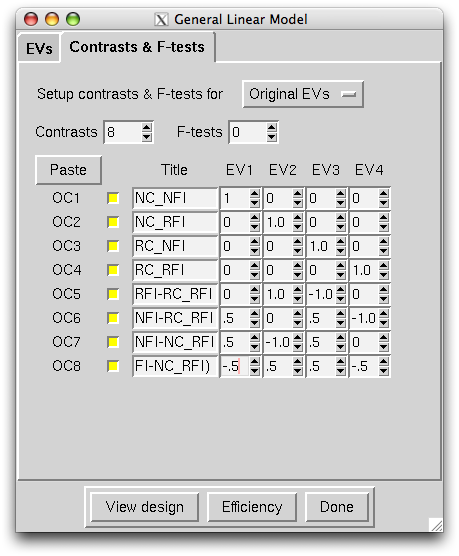
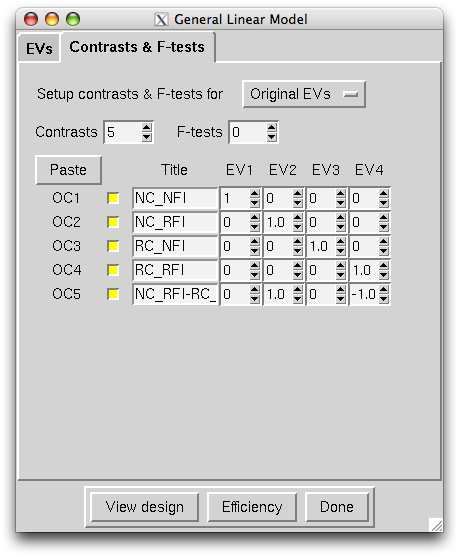
shortened ROI tutorial, re-did some images for FIR tutorial, general FIR tutorial edits

diff --git a/doc/tutorial_fir/tutorial.rst b/doc/tutorial_fir/tutorial.rst
@@ -75,7 +75,7 @@ Open *README.txt* again::
 
 Next, we need to fill out *run-order.txt* with the order of MRI sequences that were completed for this subject. One has already been made for you, so go ahead and run this command to get it:: 
 
- $ curl -k https://raw.github.com/ntblab/neuropipe-support/dev/doc/tutorial_fir/0223101_conatt01_run-order.txt > run-order.txt
+ $ curl -k https://raw.github.com/ntblab/neuropipe-support/dev/doc/tutorial_fir/run-order.txt > run-order.txt
 
 To check that *run-order.txt* came through all right, hit "q" to get out of *README.txt*, and run this command::
 
@@ -122,7 +122,7 @@ Use the "(What's this?)" links to figure out what all the diagnostics mean. When
 **Summary**::
 
   $ less README.txt
-  $ curl -k https://raw.github.com/ntblab/neuropipe-support/dev/doc/tutorial_fir/0223101_conatt01_run-order.txt > run-order.txt
+  $ curl -k https://raw.github.com/ntblab/neuropipe-support/dev/doc/tutorial_fir/run-order.txt > run-order.txt
   $ less run-order.txt
   $ less README.txt
   $ less analyze.sh
@@ -169,7 +169,7 @@ The Data tab
 
 Click "Select 4D data" and select the file *data/nifti/0223101_conatt01_encoding01.nii.gz*; FEAT will analyze this data. Set "Output directory" to *analysis/firstlevel/encoding_fir01*; FEAT will put the results of its analysis in this folder, but with ".feat" appended, or "+.feat" appended if this is the second analysis with this name that you've run. FEAT should have detected "Total volumes" as 355, but it may have mis-detected "TR (s)" as 3.0; if so, change that to 1.5, because this experiment had a TR length of 1.5 seconds. Because *protocol.txt* indicated there were 9 seconds of disdaqs (volumes of data at the start of the run that are discarded because the scanner needs a few seconds to settle down), and TR length is 1.5s, set "Delete volumes" to 6. Set "High pass filter cutoff (s)" to 128 to remove slow drifts from your signal.
 
-.. image:: https://github.com/ntblab/neuroipe-support/raw/dev/doc/tutorial_fir/feat-data.png
+.. image:: https://github.com/ntblab/neuropipe-support/raw/dev/doc/tutorial_fir/feat-data.png
 
 Go to the Pre-stats tab.
 
@@ -197,7 +197,12 @@ The Stats tab
 
 Check "Add motion parameters to model"; this makes regressors from estimates of the subject's motion, which hopefully absorb variance in the signal due to transient motion. To account for the variance in the signal due to the experimental manipulation, we define regressors based on the design, as described in *protocol.txt*. *protocol.txt* says that subjects viewed an uninterrupted stream of images, making an indoor/outdoor decision for one image every 1.5 seconds.
 
-Unbeknownst to the participants, the images were structured in such a way that each image fell into 1 of 12 categories determined by the structure of preceding images. If you're interested in the design of this experiment and the motivations behind it, check out **PAPER REFERENCE**. We will therefore have 12 regressors in this model.
+Unbeknownst to the participants, the images were structured in such a way that each image fell into 1 of 12 categories determined by the structure of preceding images. We are going to focus on 4 of the catgories of images, and therefore will have 4 regressors in this model:
+
+1. NC_NFI: last of a set of 3 images, where the 2 preceeding images are novel and the third is novel as well
+2. NC_RFI: last of a set of 3 images, where the 2 preceeding images are novel but the third has been seen before
+3. RC_RFI: last of a set of 3 images, where the 2 preceeding images are repeated (have been seen before) and the third is repeated as well
+4. RC_NFI: last of a set of 3 images, where the 2 preceeding images are repeated but the third is novel
 
 We will specify this design using text files in FEAT's 3-column format: we make 1 text file per regressor, each with one line per stimulus occurance belonging to that regressor. Each line has 3 numbers, separated by whitespace. The first number indicates the onset time in seconds of the period. The second number indicates the duration of the period. The third number indicates the height of the regressor during the period; always set this to 1 unless you know what you're doing. See `FEAT's documentation`_ for more details.
 
@@ -225,22 +230,19 @@ Click on Tab 1. Set one EV name to match the name of one of our text files. In t
 
 .. image:: https://github.com/ntblab/neuropipe-support/raw/dev/doc/tutorial_fir/feat-stats-ev4.png
 
-Now go to the "Contrasts & F-tests" tab. Increase "Contrasts" to 8. There is now a matrix of number fields with a row for each contrast and a column for each EV. You specify a contrast as a linear combination of the parameter estimates on each regressor. We'll make one contrast to show the main effect of each regressor, and a few more to look at the difference in brain activity between certain regressors or regressor combinations:
+Now go to the "Contrasts & F-tests" tab. Increase "Contrasts" to 5. There is now a matrix of number fields with a row for each contrast and a column for each EV. You specify a contrast as a linear combination of the parameter estimates on each regressor. We'll make one contrast to show the main effect of each regressor, and also one to look at the difference in brain activity between certain regressors. The idea here is that you can look at the differences between regressors or even groups of regressors by creating a contrast for a particular relationship you're interested in:
 
 * Set the 1st row's title to "NC_NFI", its "EV1" value to 1, and leave the rest of the EV values at 0. 
 * Set the 2nd row's title to "NC_RFI", its "EV2" value to 1, and leave the rest at 0.
 * Set the 3rd row's title to "RC_NFI", its "EV3" value to 1, and leave the rest at 0.
 * Set the 4rd row's title to "RC_RFI", its "EV4" value to 1, and leave the rest at 0.
 * Set the 5th row's title to "NC_RFI-RC_RFI", its "EV2" value to 1, its "EV4" value to -1, and leave the rest at 0. 
-* Set the 6th row's title to "NFI-RC_RFI", its "EV1" and "EV3" values to .5, its "EV4" value to -1, and leave the rest at 0.
-* Set the 7th row's title to "NFI-NC_RFI", its "EV1" and "EV3" values to .5, its "EV2" value to -1, and leave the rest at 0.
-* Set the 8th row's title to "(RC_NFI-RC_RFI)-(NC_NFI-NC_RFI)", its "EV1" and "EV4" values to -.5, its "EV2" and "EV3" values to .5, and leave the rest at 0.
 
 .. image:: https://github.com/ntblab/neuropipe-support/raw/dev/doc/tutorial_fir/feat-stats-contrasts.png
 
-Close that window, and FEAT shows you a graph of your model. If it's different from the one below, check you followed the instructions correctly.
+Click 'Done', and FEAT shows you a graph of your model. If it's different from the one below, check you followed the instructions correctly.
 
-.. image:: https://github.com/ntblab/neuropipe-support/raw/dev/doc/tutorial_fir/feat-model-graph.png
+.. image:: https://github.com/ntblab/neuropipe-support/raw/dev/doc/tutorial_fir/feat-graph-model.png
 
 Go to the Registration tab.
 
@@ -266,9 +268,9 @@ FEAT should already have a "Standard space" image selected; leave it with the de
 
 The subject's functional data is first registered to the initial structural image, then that is registered to the main structural image, which is then registered to the standard space image. All this indirection is necessary because registration can fail, and it's more likely to fail if you try to go directly from the functional data to standard space.
 
-.. image:: https://github.com/ntblab/neuropipe-support/raw/dev/doc/tutorial_fir/feat-registration.png
+.. image:: https://github.com/ntblab/neuropipe-support/raw/dev/doc/tutorial_fir/feat-reg.png
 
-That's it! Hit Go. A webpage should open in your browser showing FEAT's progress. Once it's done, this webpage provides a useful summary of the analysis you just ran with FEAT. Later, we'll make a webpage for this subject to gather information like this FEAT report, the QA results, and plots summarizing this subject's data.
+That's it! Hit Go. A webpage should open in your browser showing FEAT's progress. Once it's done, this webpage provides a useful summary of the analysis you just ran with FEAT. Before continuing on, be sure to check through the logs to make sure that no errors have occured.
 
 
 Repeating the analysis for a second run
@@ -303,9 +305,9 @@ Make the following replacements and save the file. Be sure to include the spaces
   #. on the line starting with "set initial_highres_files(1) ", replace all of the text inside the quotes with "<?= $INITIAL_HIGHRES_FILE ?>"
   #. on the line starting with "set highres_files(1)", replace all of the text inside the quotes with "<?= $HIGHRES_FILE ?>"
   #. on the line starting wth "set fmri(custom1)", replace all the text inside the quotes with "<?= $EV_DIR ?>/NC_NFI.txt"
-  #. on the line starting wth "set fmri(custom1)", replace all the text inside the quotes with "<?= $EV_DIR ?>/NC_RFI.txt"
-  #. on the line starting wth "set fmri(custom1)", replace all the text inside the quotes with "<?= $EV_DIR ?>/RC_NFI.txt"
-  #. on the line starting wth "set fmri(custom1)", replace all the text inside the quotes with "<?= $EV_DIR ?>/RC_RFI.txt"
+  #. on the line starting wth "set fmri(custom2)", replace all the text inside the quotes with "<?= $EV_DIR ?>/NC_RFI.txt"
+  #. on the line starting wth "set fmri(custom3)", replace all the text inside the quotes with "<?= $EV_DIR ?>/RC_NFI.txt"
+  #. on the line starting wth "set fmri(custom4)", replace all the text inside the quotes with "<?= $EV_DIR ?>/RC_RFI.txt"
 
 
 Those bits you replaced with placeholders are the parameters that must change when analyzing a different run, a new subject, or using a different computer. After saving the file, copy it to the prototype so it's available for future subjects::
@@ -339,6 +341,8 @@ It consists of a function called render_firstlevel, which we'll use to render th
                     $NIFTI_DIR/${SUBJ}_encoding01 \
                     $NIFTI_DIR/${SUBJ}_t1_flash01.nii.gz \
                     $NIFTI_DIR/${SUBJ}_t1_mprage01.nii.gz \
+                    . \
+                    . \
                     $EV_DIR/encoding1 \
                     > $FSF_DIR/encoding_fir01.fsf
 
@@ -348,6 +352,8 @@ It consists of a function called render_firstlevel, which we'll use to render th
                     $NIFTI_DIR/${SUBJ}_encoding02 \
                     $NIFTI_DIR/${SUBJ}_t1_flash01.nii.gz \
                     $NIFTI_DIR/${SUBJ}_t1_mprage01.nii.gz \
+                    . \
+                    . \
                     $EV_DIR/encoding2 \
                     > $FSF_DIR/encoding_fir02.fsf
                     
@@ -435,6 +441,6 @@ What comes next
 
    ~/fir-proj/subjects/0223101_conatt01
 
-FIR results are usually not very illuminating at this point, but now you have information about this subject's response to different regressors, in an 18 second window consisting of 12 timepoints.  The results start to emerge as you collapse the results from each regressor across the time points that were specified in the FIR model. This can be done with the whole brain or with individual ROIs. Check out the ROI tutorial if you'd like to continue analyzing this data using an ROI analysis of the PPA.
+You now have information about this subject's response to different regressors, in an 18 second window consisting of 12 timepoints. From here, your analysis will vary according to the aims of your study. Furthermore, because we copied the scripts used in this analysis in the *prototype* folders, you are now in a position to analyze more subject data simply by collecting data, creating run-specific regressor files, and running *analyze.sh*.
 
-Furthermore, because we copied the scripts used in this analysis in the *prototype* folders, you are now in a position to analyze more subject data simply by collecting data and running *analyze.sh*.
+If you're are also interested in extracting timecourse information from specific regions of interest within the brain, you can check out the ROI tutorial and use the data you've just analyzed.

diff --git a/doc/tutorial_roi/tutorial.rst b/doc/tutorial_roi/tutorial.rst
@@ -78,23 +78,18 @@ Let's open *roi.sh* up again and see what it does. (It's always a good idea to k
 
  $ less scripts/roi.sh
 
-First, the script reads in the ROI information we supply with our two text files. Then, it calls *transform-coords-dest.sh*, which transforms the coordinates of the peak voxels of each ROI into the space of the run(s) that you're interested in running this analysis on. Those are specified by adding feat directories as options to the command.
+First, the script reads in the ROI information we supply with our two text files. Then, it calls *transform-coords-dest.sh*, which transforms the coordinates of the peak voxels of each ROI into the space of the run(s) that you're interested in running this analysis on. This way, the coordinates that you collected earlier, on a localizer run, will line up with the same regions in the runs you're extracting information from.
+Those runs are specified by adding one or more feat directories as options to the command.
 
-Now that your ROI coordinates are situating in the space of the run, the script pulls out the 'cope' files from the run, which contain time series information based on the contrasts that you set up when modeling the run in a GLM. Then, it calls *transform-to-psc.sh* to convert the signal intensity in each cope file to percent signal change. 
+Now that your ROI coordinates are correctly aligned to your run of interest, the script pulls out the 'cope' files from the run, which contain time series information based on the contrasts that you set up when modeling the run in a GLM. Then, it calls *transform-to-psc.sh* to convert the signal intensity in each cope file to percent signal change. 
 
 Then, *roi.sh* calls *extract-stat-at-coords.sh*, which extracts the time course of your ROI coordinates for each time point of each cope, and organizes them as a csv file. And finally, the data is loaded into R to be organized for future use as well.
 
-So, let's do it!
+So, let's do it! If you've completed the FIR tutorial, you can try this out on the two 'encoding_fir' runs that you've analyzed already.
 
  $ scripts/roi.sh analysis/firstlevel/encoding_fir01.feat analysis/firstlevel/encoding_fir02.feat
  
-You should now have cvs files in *results/roi* along with an .Rdat file that can be loaded into R for running statistics or plotting your data. For example, you can plot the time course for each ROI for visual comparison between experiment conditions, and also differences in the activity of each brain region.
-
-.. image:: https://github.com/ntblab/neuropipe-support/raw/dev/doc/tutorial_roi/ggplot2-graph.png
-
-And, after running this ROI analysis on the data from two runs each from 18 subjects, we can start to see a difference in the BOLD response caused by adaptation -- that is, when a novel image was presented after a series of two objects that had been previously shown (RC_NFI), no adaptation occurs because the sequence of images is not learned. Likewise, when a series of two novel images are presented before an image that has already been shown (NC_RFI), since the sequence of images as never been learned before, no adaptation appears. However, when a series of three images appear in an order that has been previously shown (RC_RFI), the appearance of the third image is expected, and adaptation is present. We can see this in the decreased BOLD peak in the time course for that category.
-
-.. image:: https://github.com/ntblab/neuropipe-support/raw/dev/doc/tutorial_roi/ggplot2-graph-all.png
+You should now have cvs files in *results/roi* along with an .Rdat file that can be loaded into R, Excel, or another program of your choice, either for running statistics or plotting your data. From here on out, your analysis will depend on the aims of your study. Good luck!
 
 
 
